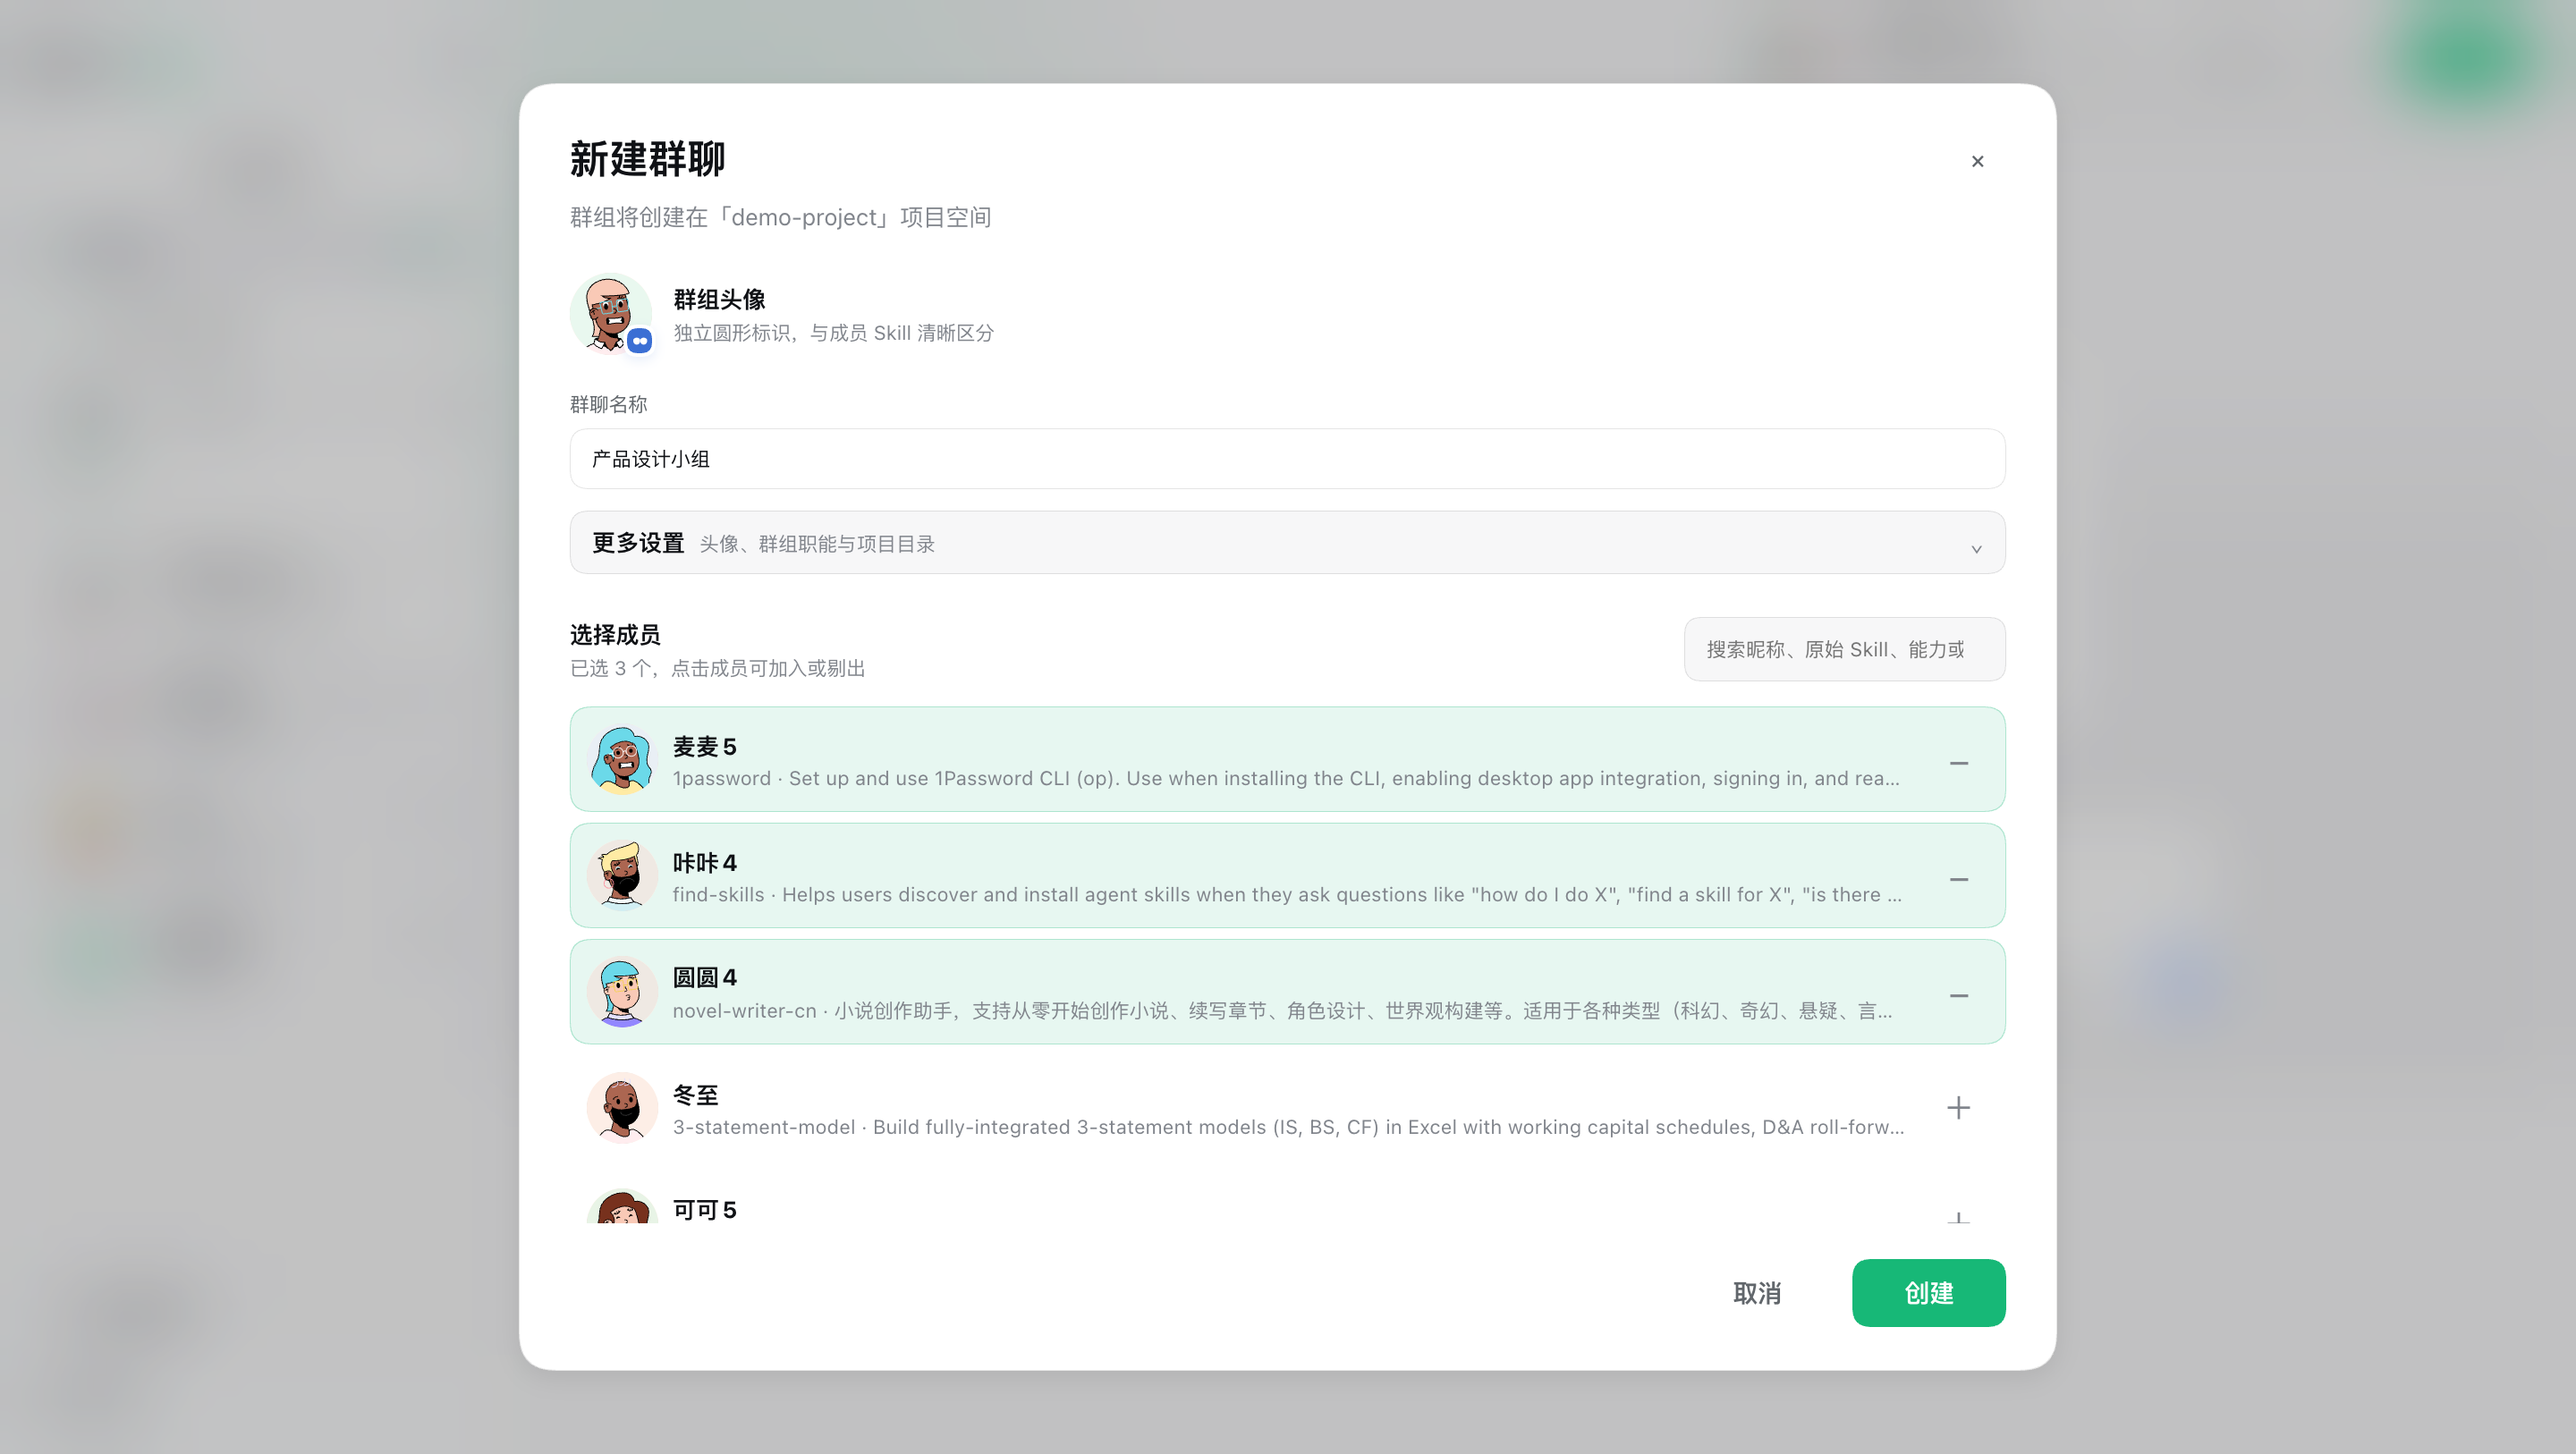
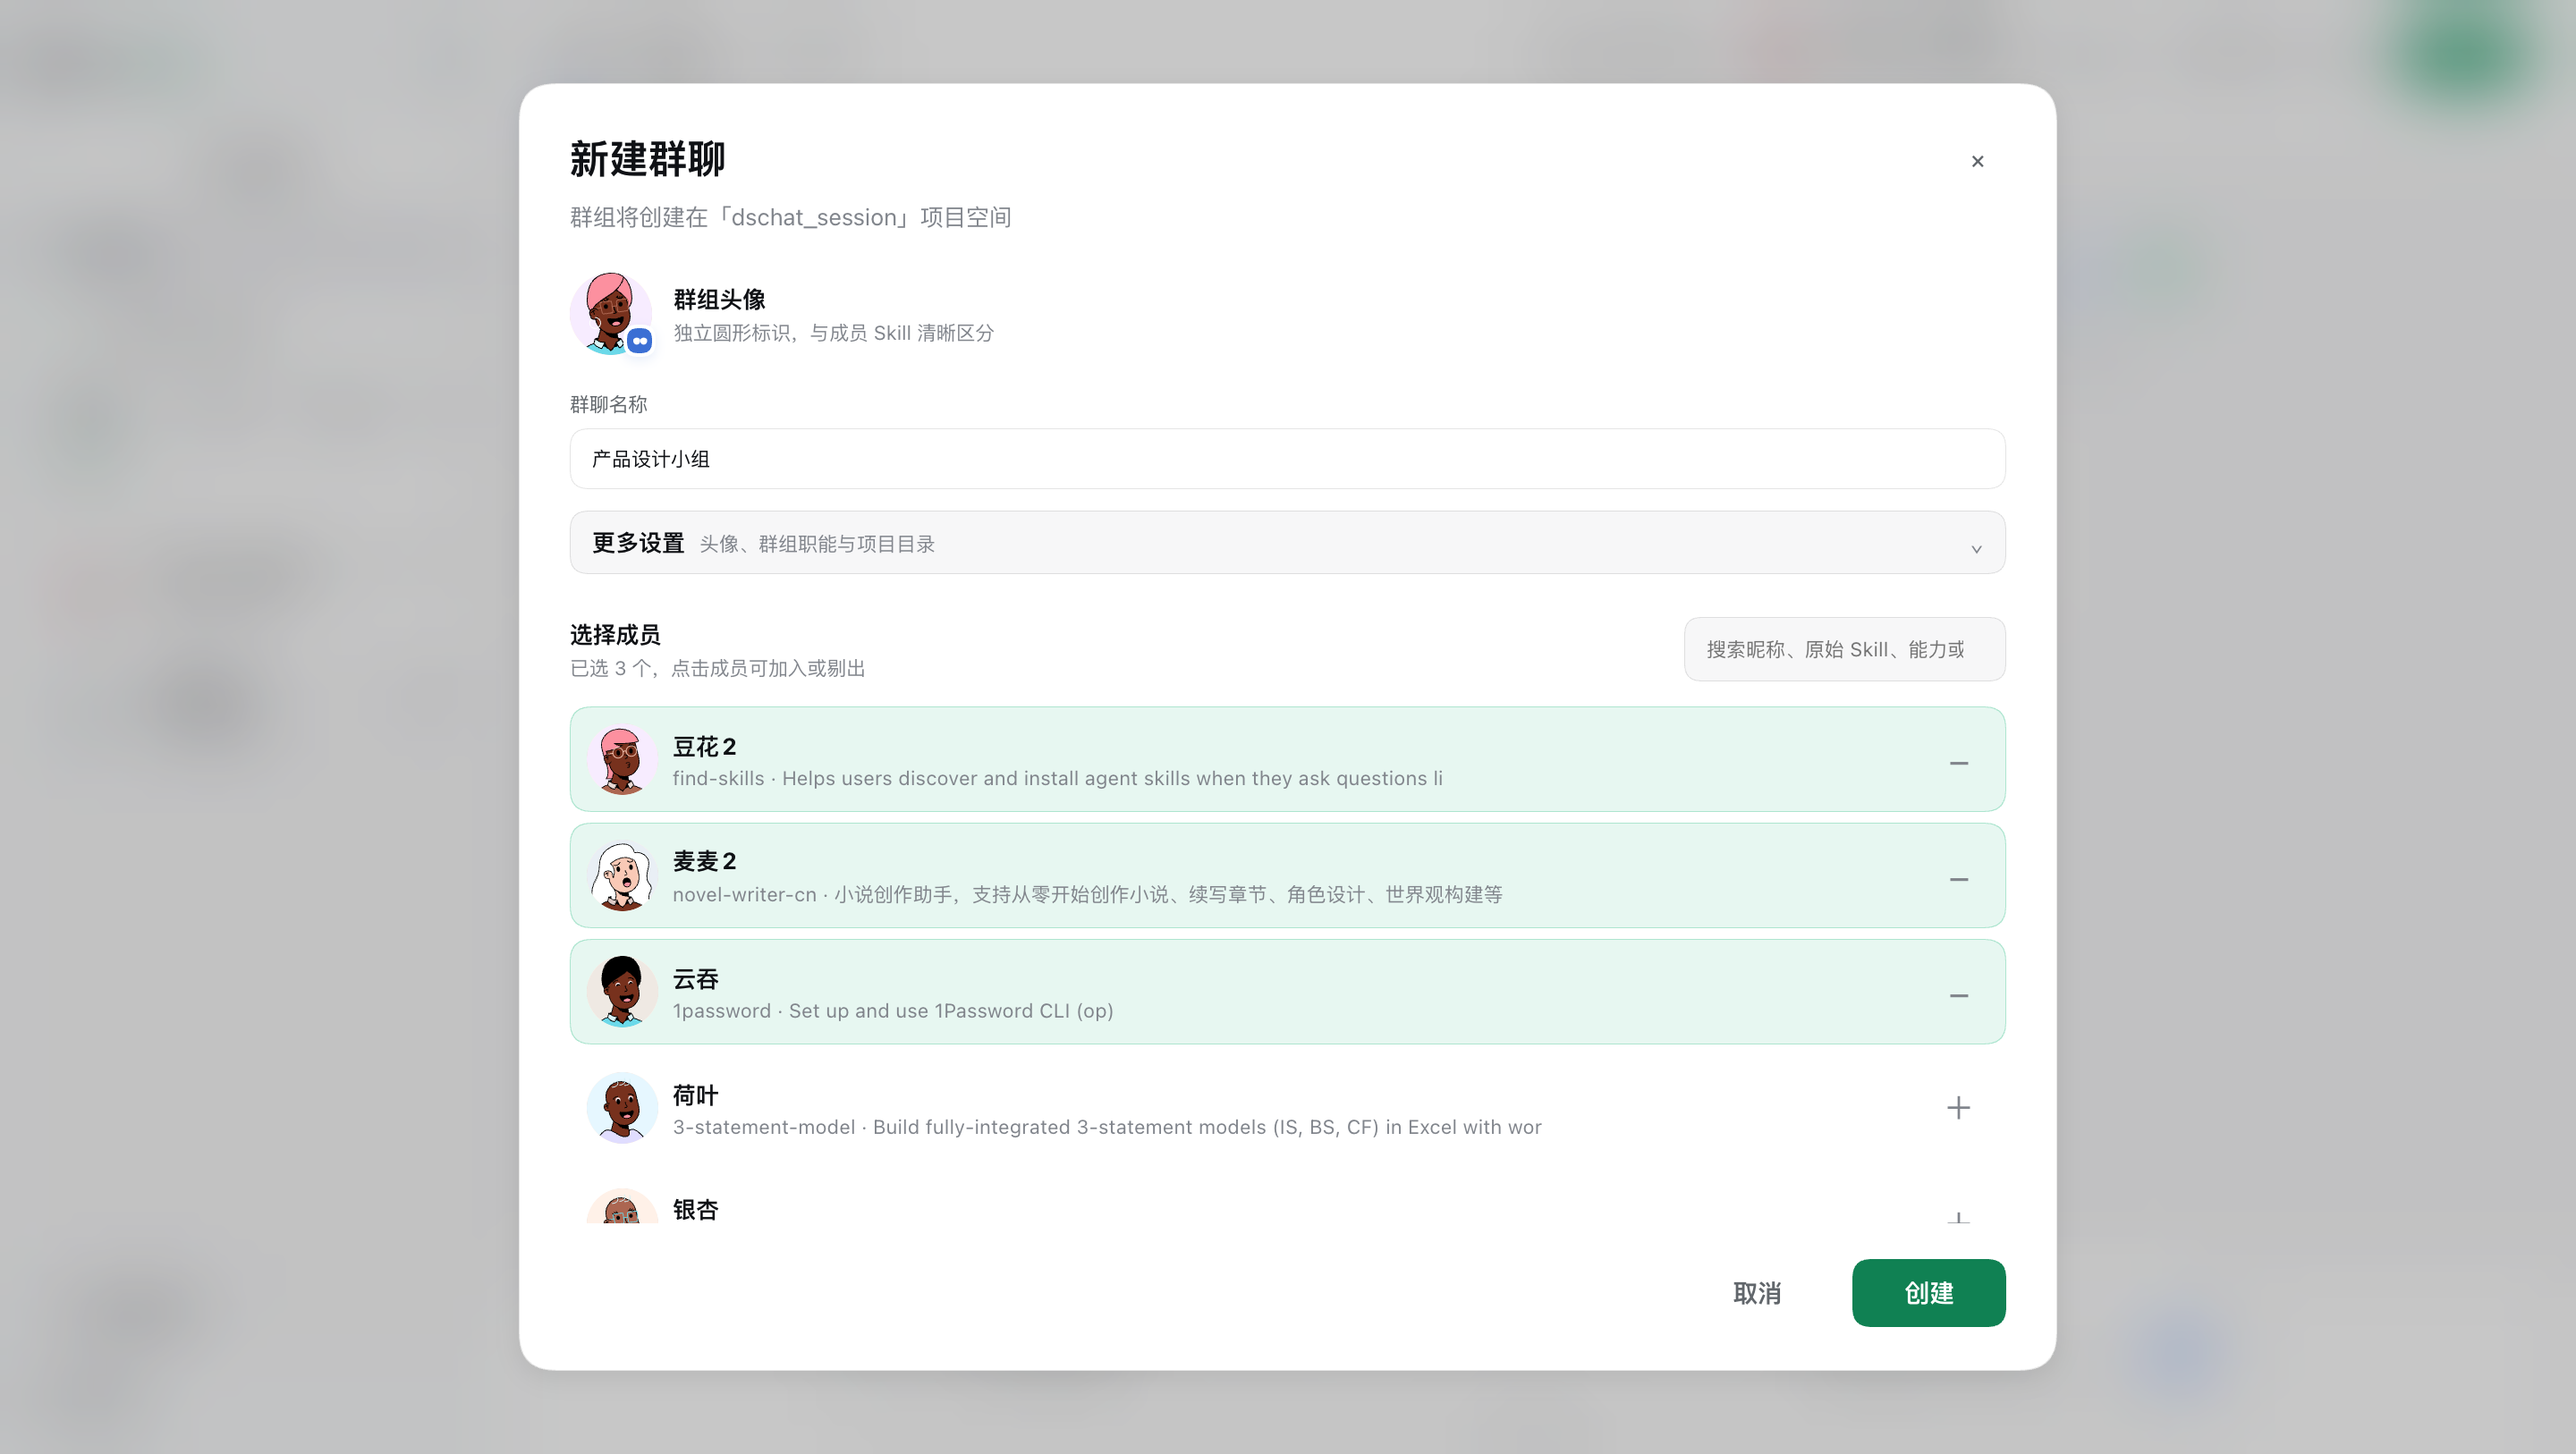
docs: 截图脚本进仓库，换掉两张已经不对的图，补上成员面板
scripts/shoot.mjs 之前只在 scratchpad 里，每次改 UI 都要手工重来。收进仓库并
按当前界面调整：首次运行的模型密钥弹窗与折叠的侧栏先处理掉，暗色那张改为走外壳
自己的设置而不是硬贴属性（插件的令牌跟随宿主调色板，只有设置能同时改动两边），
并新增成员面板一张。

- themes：旧图还画着第七轮已经撤回的「夜航」皮肤，是错的，必须换。
- groups：新图能看到一句话简介的改进（原本是一串触发词）。
- members：这一轮的重点功能，新增。

main、dark、automations 没有换：演示实例没有 API Key，会话区是一条红色的
「本轮运行失败 · no API key」，放进 README 会让人以为产品是坏的。记在 TODO 里，
等一次配了模型的演示实例再拍。

diff --git a/TODO.md b/TODO.md
@@ -113,11 +113,17 @@ automationRuns），或至少 debounce + 差量。
 `bindLegacyGroups`、`parseAnsiLines`、`migrateMemberKeys`、`memberForSubagent`、
 `oneLineBio`。**没有任何组件渲染测试**。
 
-### 11. 演示媒体是手工流程
+### 11. 三张截图还欠一次带模型的重拍
 
-`scratchpad` 里的 `shoot.mjs` / `record.mjs` 不在仓库里，每次改 UI 都要手工重录
-README 的截图和 GIF。应该收进 `scripts/` 并写进文档。**这一轮的 UI 改动没有
-重拍截图**，`docs/images/` 里的五张仍是上一轮的界面。
+`scripts/shoot.mjs` 已经进仓库（用法见 CLAUDE.md）。这一轮用它重拍了 `themes`
+（旧图还画着第七轮已撤回的「夜航」皮肤，是错的）、`groups`（能看到一句话简介的
+改进），并新增了 `members`。
+
+`main`、`dark`、`automations` **没有换**：演示实例没有 API Key，会话区里是一条
+「本轮运行失败 · no API key」的红色报错，放进 README 会让人以为产品是坏的。这三张
+要等一次配了模型的演示实例再拍。
+
+`record.mjs`（README 的 GIF）仍不在仓库里。
 
 ---
 

diff --git a/CLAUDE.md b/CLAUDE.md
@@ -65,6 +65,16 @@ dsh web --port 7811 --no-open
 鉴权只认页面自己的 cookie——所以从页面 console 里 `fetch` 调，curl 会 401。
 这是绕开 UI 直接验一个 Remote 最快的方式。
 
+重拍 README 截图：
+
+```bash
+node scripts/shoot.mjs 'http://127.0.0.1:7811/?token=…' docs/images
+```
+
+它用 DevTools 协议驱动无头 Chrome，拍的是浏览器真正画出来的东西。**务必指向一个
+自己的 `DSH_HOME` 演示实例**——这些图会进仓库，而真实实例里是你自己的对话。没有
+配 API Key 的实例，会话区会显示一条红色的凭据报错，那几张就不要用。
+
 **跑一个演示实例务必带 `--no-open`**：否则 `dsh web` 会打开用户的真实浏览器，
 那个标签页可能持有旧的 bundle 与陈旧的 localStorage，会把服务端状态覆盖掉，
 表现为「我改的东西没生效」或「数据莫名其妙没了」。

diff --git a/README.md b/README.md
@@ -36,6 +36,15 @@ Search installed Skills, add or remove them like group members, choose a circula
 
 ![Create a DeepSeek Harness multi-agent group](docs/images/deepseek-harness-chat-ui-groups.png)
 
+### See who is working
+
+The members panel says what each member of the room is doing. The state comes from
+the background subagents the coordinator actually started, not from a narration.
+The `@` beside a member addresses them directly; `@everyone` asks each of them to
+answer once rather than merging into a single voice.
+
+![The DeepSeek Harness Chat UI members panel](docs/images/deepseek-harness-chat-ui-members.png)
+
 ### Scheduled automations
 
 Every automation runs in the room it belongs to. Pick a scenario to prefill the

diff --git a/README.zh.md b/README.zh.md
@@ -36,6 +36,13 @@ DeepSeek Harness 提供了强大的 Agent Runtime，但默认界面更偏向 Ses
 
 ![创建 DeepSeek Harness 多智能体群组](docs/images/deepseek-harness-chat-ui-groups.png)
 
+### 看得见谁在干活
+
+成员面板列出这个房间里的每位成员在做什么——状态来自宿主为协调者起的那些后台子代理，
+不是一句叙述。点头像旁的 @ 直接指名，`@所有人` 让每位成员各答一次而不合并成一段。
+
+![DeepSeek Harness Chat UI 成员面板](docs/images/deepseek-harness-chat-ui-members.png)
+
 ### 定时自动化
 
 每条自动化都跑在它所属的房间里。选一张场景卡片即可预填名称、提示词和周期，也可以从空白开始。
